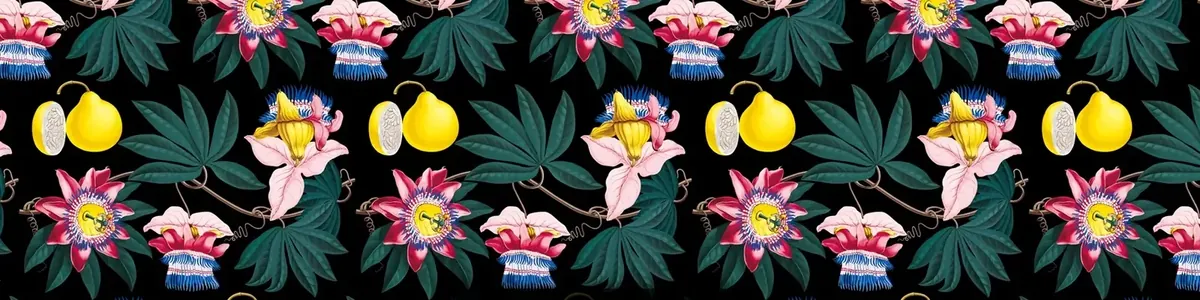
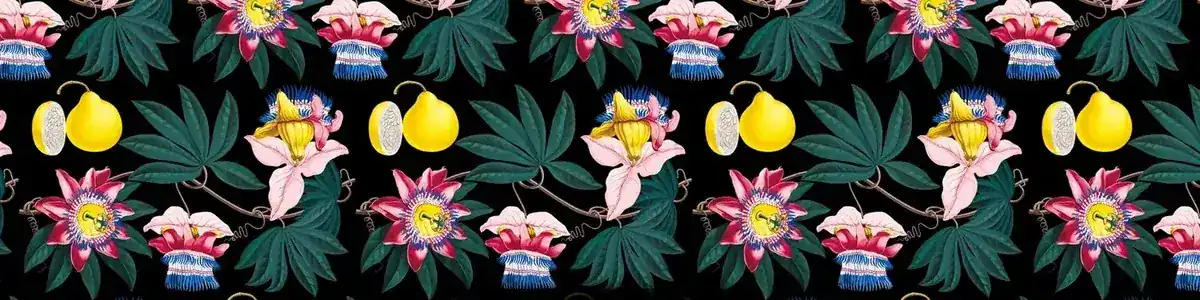
Move the hub figures below the first screen and cut image weight
Moving the figure out of the opening viewport fixes LCP on all five hubs:
the image was the largest visible element, so Lighthouse measured it as the
LCP candidate and pushed LCP to 3.0-3.5s. Below the fold, the headline text
becomes the LCP instead.

Measured on the final build, mobile, gzip, standard Lighthouse throttling:

  page                      perf before -> after   LCP before -> after
  /silk-fabrics/            91 -> 98               3.0s -> 0.9s
  /silk-momme-guide/        87 -> 97               3.5s -> 1.0s
  /wholesale-silk-fabric/   92 -> 98               3.0s -> 0.9s
  /silk-fabric-price-guide/ 93 -> 98               2.9s -> 0.9s
  /yizhou-raw-silk/         94 -> 97               1.5s -> 1.0s

Also recompressed the header print panel (828w 42.7 KB -> 30 KB, 1200w
76 KB -> 52 KB). It renders at 412x64 on a phone, so the extra bytes were
being paid on every page for no visible gain.

diff --git a/src/app/silk-momme-guide/page.tsx b/src/app/silk-momme-guide/page.tsx
@@ -183,13 +183,6 @@ export default function SilkMommeGuidePage() {
           </p>
 
         
-        <figure className="mt-8 max-w-3xl overflow-hidden border border-line">
-          <img src="/products/georgette.webp" alt="Georgette cloth at the lighter end of the momme scale" width="1200" height="800" loading="eager" fetchPriority="high" decoding="async" className="h-auto w-full object-cover" />
-          <figcaption className="border-t border-line bg-ivory-deep px-4 py-3 text-xs text-ink-muted">
-            Georgette, 8–16 momme: the blouse and scarf zone where finished-weight figures matter most.
-          </figcaption>
-        </figure>
-
         <KeyTakeaways
           items={[
             "One momme is 4.34 g/m² of cloth, and that conversion is exact; the ambiguity sits in when the cloth was weighed, not in the unit.",
@@ -217,7 +210,14 @@ export default function SilkMommeGuidePage() {
           </p>
         </section>
 
-        {/* 术语定义：三个词必须能被摘出来单独引用 */}
+                <figure className="mt-8 max-w-3xl overflow-hidden border border-line">
+          <img src="/products/georgette.webp" alt="Georgette cloth at the lighter end of the momme scale" width="1200" height="800" loading="lazy" decoding="async" className="h-auto w-full object-cover" />
+          <figcaption className="border-t border-line bg-ivory-deep px-4 py-3 text-xs text-ink-muted">
+            Georgette, 8–16 momme: the blouse and scarf zone where finished-weight figures matter most.
+          </figcaption>
+        </figure>
+
+{/* 术语定义：三个词必须能被摘出来单独引用 */}
         <section className="mt-12 border-t border-line pt-10">
           <h2 className="font-display text-2xl font-medium text-jade-deep">
             Three words, defined

diff --git a/src/app/silk-fabrics/page.tsx b/src/app/silk-fabrics/page.tsx
@@ -409,13 +409,6 @@ export default function SilkFabricsPage() {
         </p>
 
         
-        <figure className="mt-8 max-w-3xl overflow-hidden border border-line">
-          <img src="/products/dupioni2.webp" alt="Dupioni silk with its characteristic irregular slubs, woven from Yizhou raw silk" width="425" height="567" loading="eager" fetchPriority="high" decoding="async" className="mx-auto h-auto w-full max-w-sm object-cover" />
-          <figcaption className="border-t border-line bg-ivory-deep px-4 py-3 text-xs text-ink-muted">
-            Dupioni, the workhorse of structured bridal: 16–19 momme standard, up to 21–22 on request.
-          </figcaption>
-        </figure>
-
         <KeyTakeaways
           items={[
             "Silk is a family of about 22 commercial constructions, not one fabric: weight runs from 5 momme habotai lining to 30 momme mikado.",
@@ -500,7 +493,14 @@ export default function SilkFabricsPage() {
           </p>
         </section>
 
-        {/* 22 织法表 */}
+                <figure className="mt-8 max-w-3xl overflow-hidden border border-line">
+          <img src="/products/dupioni2.webp" alt="Dupioni silk with its characteristic irregular slubs, woven from Yizhou raw silk" width="425" height="567" loading="lazy" decoding="async" className="mx-auto h-auto w-full max-w-sm object-cover" />
+          <figcaption className="border-t border-line bg-ivory-deep px-4 py-3 text-xs text-ink-muted">
+            Dupioni, the workhorse of structured bridal: 16–19 momme standard, up to 21–22 on request.
+          </figcaption>
+        </figure>
+
+{/* 22 织法表 */}
         <section className="mt-16 border-t border-line pt-12">
           <h2 className="font-display text-3xl font-medium text-jade-deep">
             The 22 constructions

diff --git a/src/app/silk-fabric-price-guide/page.tsx b/src/app/silk-fabric-price-guide/page.tsx
@@ -217,13 +217,6 @@ export default function SilkFabricPriceGuidePage() {
         </p>
 
         
-        <figure className="mt-8 max-w-3xl overflow-hidden border border-line">
-          <img src="/products/greige-fabric.webp" alt="Greige silk fabric undyed straight from the loom" width="412" height="384" loading="eager" fetchPriority="high" decoding="async" className="mx-auto h-auto w-full max-w-sm object-cover" />
-          <figcaption className="border-t border-line bg-ivory-deep px-4 py-3 text-xs text-ink-muted">
-            Greige silk, the cheapest point on the colour-route scale: undyed, straight off the loom.
-          </figcaption>
-        </figure>
-
         <KeyTakeaways
           items={[
             "Six variables drive the number: grade, momme basis, construction, colour route, quantity and width. Fix them and two quotes become comparable.",
@@ -303,7 +296,14 @@ export default function SilkFabricPriceGuidePage() {
           </p>
         </section>
 
-        {/* 六个驱动因子 */}
+                <figure className="mt-8 max-w-3xl overflow-hidden border border-line">
+          <img src="/products/greige-fabric.webp" alt="Greige silk fabric undyed straight from the loom" width="412" height="384" loading="lazy" decoding="async" className="mx-auto h-auto w-full max-w-sm object-cover" />
+          <figcaption className="border-t border-line bg-ivory-deep px-4 py-3 text-xs text-ink-muted">
+            Greige silk, the cheapest point on the colour-route scale: undyed, straight off the loom.
+          </figcaption>
+        </figure>
+
+{/* 六个驱动因子 */}
         <section className="mt-16">
           <h2 className="font-display text-3xl font-medium text-jade-deep">
             The six drivers

diff --git a/src/app/wholesale-silk-fabric/page.tsx b/src/app/wholesale-silk-fabric/page.tsx
@@ -263,13 +263,6 @@ export default function WholesaleSilkFabricPage() {
         </p>
 
         
-        <figure className="mt-8 max-w-3xl overflow-hidden border border-line">
-          <img src="/products/satin.webp" alt="Silk satin roll, dyed to order from 10 to 30 momme" width="1200" height="800" loading="eager" fetchPriority="high" decoding="async" className="h-auto w-full object-cover" />
-          <figcaption className="border-t border-line bg-ivory-deep px-4 py-3 text-xs text-ink-muted">
-            Silk satin, 10–30 momme, dyed to order — one of the nine standing wholesale constructions.
-          </figcaption>
-        </figure>
-
         <KeyTakeaways
           items={[
             "Nine constructions are standing products from local mills in Yizhou; the rest are woven to order, and the page states which is which.",
@@ -346,7 +339,14 @@ export default function WholesaleSilkFabricPage() {
           </p>
         </section>
 
-        {/* 批发矩阵 */}
+                <figure className="mt-8 max-w-3xl overflow-hidden border border-line">
+          <img src="/products/satin.webp" alt="Silk satin roll, dyed to order from 10 to 30 momme" width="1200" height="800" loading="lazy" decoding="async" className="h-auto w-full object-cover" />
+          <figcaption className="border-t border-line bg-ivory-deep px-4 py-3 text-xs text-ink-muted">
+            Silk satin, 10–30 momme, dyed to order — one of the nine standing wholesale constructions.
+          </figcaption>
+        </figure>
+
+{/* 批发矩阵 */}
         <section className="mt-16 border-t border-line pt-12">
           <h2 className="font-display text-3xl font-medium text-jade-deep">
             What we supply wholesale

diff --git a/src/app/yizhou-raw-silk/page.tsx b/src/app/yizhou-raw-silk/page.tsx
@@ -281,7 +281,7 @@ export default function YizhouRawSilkPage() {
 
         
         <figure className="mt-8 max-w-3xl overflow-hidden border border-line">
-          <img src="/products/raw-silk-20-22d.webp" alt="A hank of 20/22 denier mulberry raw silk, the grade reeled in Yizhou" width="1200" height="900" loading="eager" fetchPriority="high" decoding="async" className="h-auto w-full object-cover" />
+          <img src="/products/raw-silk-20-22d.webp" alt="A hank of 20/22 denier mulberry raw silk, the grade reeled in Yizhou" width="1200" height="900" loading="lazy" decoding="async" className="h-auto w-full object-cover" />
           <figcaption className="border-t border-line bg-ivory-deep px-4 py-3 text-xs text-ink-muted">
             20/22 denier mulberry raw silk — the spec sheet behind every construction on the product pages.
           </figcaption>
